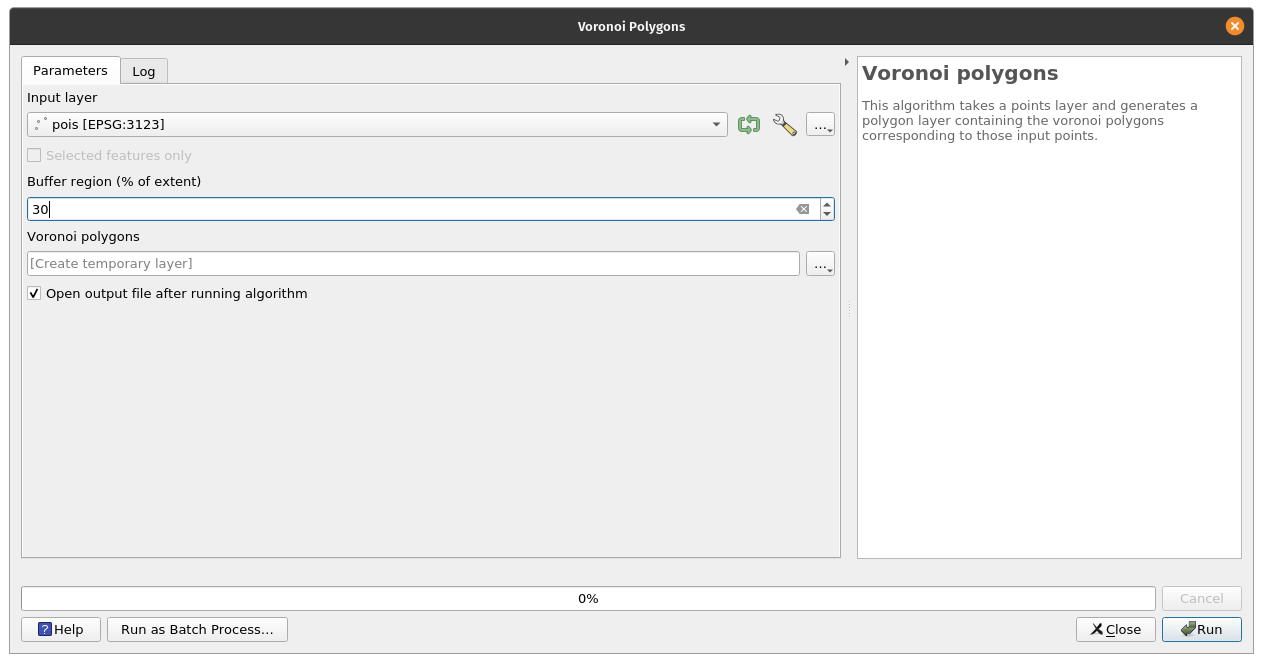
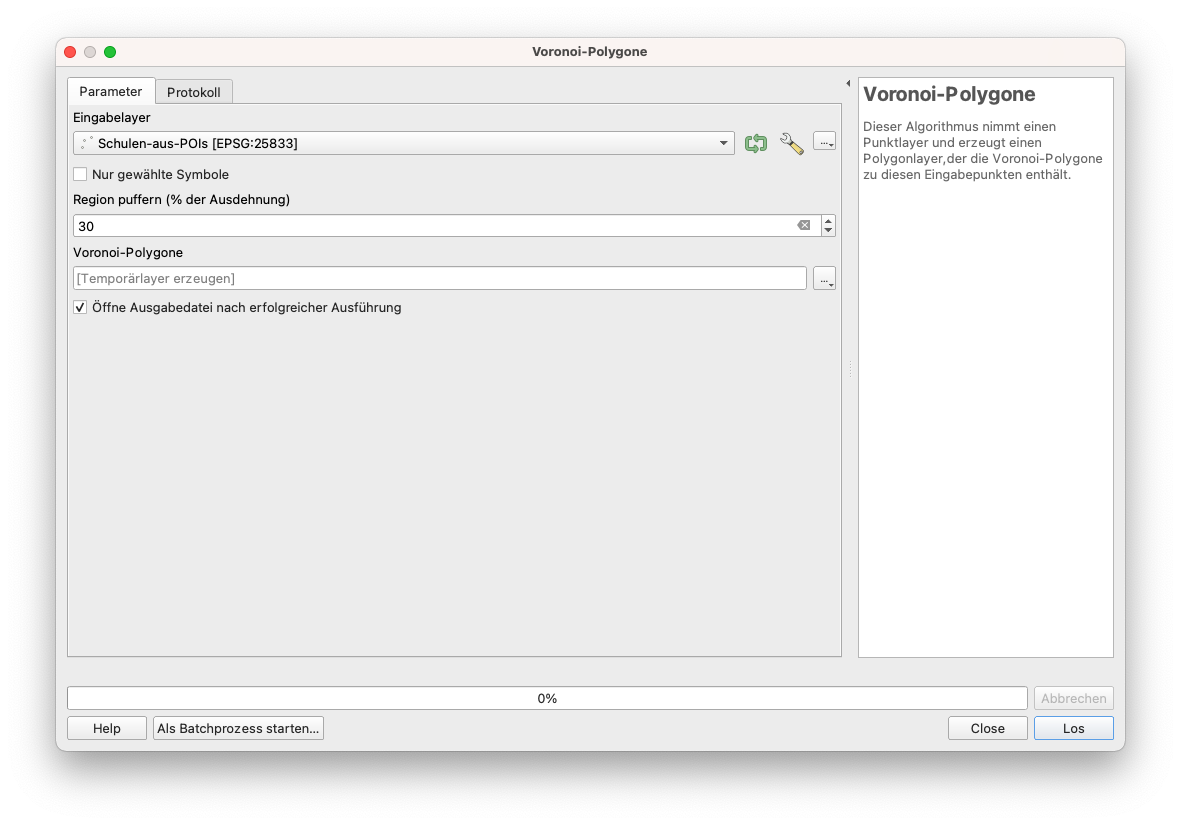
Translate & Localise more of module 8

Changed region(s): [[0.0, 0.0, 1.0, 0.9955], [0.6401, 0.3922, 0.6706, 0.4223]]

diff --git a/germany/module8/module8.md b/germany/module8/module8.md
@@ -15,13 +15,13 @@ Am Ende dieses Moduls sollten Sie ein grundlegendes Verständnis für die folgen
 * Geodatenanalyse
 * Geostatistik
 * Topologie
-* Geoprocessing
+* Geoverarbeitung
 
 Außerdem erwerben Sie die folgenden Fähigkeiten:
 
 * Qualitätskontrolle von geometrischen Vektordatensätzen mit Algorithmen zur Überprüfung der Vektordatentopologie und Durchführung grundlegender automatischer Korrekturen
 * Arbeiten mit Algorithmen zur Identifizierung von Fehlern in der Attributtabelle
-* Vektordatenverarbeitung - Ausführen einfacher Geoprocessing-Algorithmen zur Beantwortung möglicher Anforderungen, z. B. wie viele öffentliche Gebäude gibt es in meiner Verwaltungsregion?
+* Vektordatenverarbeitung - Ausführen einfacher Geoverarbeitungsalgorithmen zur Beantwortung möglicher Anforderungen, z. B. wie viele öffentliche Gebäude gibt es in meiner Verwaltungsregion?
 * Vektordatenverarbeitung - Verwendung von Geostatistik-Algorithmen zum Auffüllen fehlender Daten. 
 
 
@@ -110,7 +110,7 @@ Obwohl GIS meist eng mit Karten assoziiert wird, die einfach nur geografische In
 
 GIS-Software bietet Funktionalitäten, die es erlauben, relevante Topologieregeln zu definieren, sowie Algorithmen, um zu prüfen, ob sie zutreffen, und um den Vektor-Layer zu bereinigen, wenn Inkonsistenzen festgestellt werden. 
 
-Geoprocessing ist ein allgemeiner Begriff, der alle Operationen - Prozesse - definiert, die auf einen geografischen Datensatz angewendet werden, mit dem Ziel, einen abgeleiteten Datensatz zu erhalten, der neue Erkenntnisse über die Daten ermöglicht. Übliche Geoprocessing-Operationen sind die Überlagerung von geografischen Merkmalen, die Auswahl und Analyse von Merkmalen, die Topologieverarbeitung und die Datenkonvertierung. Geoprocessing ermöglicht es, geografische Informationen zu definieren, zu verwalten und zu analysieren, um die Entscheidungsfindung zu unterstützen. 
+Geoverarbeitung ist ein allgemeiner Begriff, der alle Operationen - Prozesse - definiert, die auf einen geografischen Datensatz angewendet werden, mit dem Ziel, einen abgeleiteten Datensatz zu erhalten, der neue Erkenntnisse über die Daten ermöglicht. Übliche Geoverarbeitungsperationen sind die Überlagerung von geografischen Merkmalen, die Auswahl und Analyse von Merkmalen, die Topologieverarbeitung und die Datenkonvertierung. Geoverarbeitung ermöglicht es, geografische Informationen zu definieren, zu verwalten und zu analysieren, um die Entscheidungsfindung zu unterstützen. 
 
 
 TODO
@@ -446,83 +446,78 @@ Abbildung 8.22 - GroupStats auf dem Straßenlayer
 
 
 
-### Phase 2: Introduction into vector processing
+### Teil 2: Einführung in die Vektorverarbeitung
 
-First phase of the vector module made a brief introduction into the steps that one should make to have a basic understanding of the geospatial data they have at hand. 
+Der erste Teil des Vektormoduls gab eine Einführung in die Schritte, die ein grundlegendes Verständnis für die vorliegenden Geodaten schaffen können. 
 
-This second phase of the module leads you into a more in depth work to process vector data in order to extract valuable insights to assist decision making. Following the concepts described at the beginning of this module, geoprocessing represents any process applied to a geographical dataset, with the scope of obtaining a derived dataset opening new insights on the data. And this is what we will attempt to do in the following. 
+Dieser zweite Teil des Moduls führt Sie in eine tiefergehende Arbeit zur Verarbeitung von Vektordaten ein, um wertvolle Erkenntnisse für die Entscheidungsfindung zu gewinnen. In Anlehnung an die zu Beginn dieses Moduls beschriebenen Konzepte stellt Geoverarbeitung jeden Prozess dar, der auf einen geografischen Datensatz angewendet wird, mit dem Ziel, einen abgeleiteten Datensatz zu erhalten, der neue Erkenntnisse über die Daten eröffnet. Und genau das werden wir im Folgenden tun. 
 
-There are many operations that can be performed on one or more geospatial datasets and during this first step, we will run some of the most common ones to understand how they operate. 
+Es gibt viele Operationen, die auf einen oder mehrere Geodatensätze angewendet werden können, und in diesem ersten Schritt werden wir einige der gängigsten ausführen, um zu verstehen, wie sie funktionieren. 
 
-**Buffer.** Imagine that you need to analyse a new piece of legislation that asks that on an area of 500 meters around places of worship there can be no other construction built. You would want to see where exactly those delinations are and maybe even how many square meters that is for your district. First step is to define a buffer around the places of worship: **Vector ‣ geoprocessing tools ‣ Buffer**. When the buffer window opens, set the parameters like in figure 8.23: 
-
-
-![Setting the parameters for a 500 m buffer around the places of worship](media/fig823.png "Setting the parameters for a 500 m buffer around the places of worship")
-
-Figure 8.23 - Setting the parameters for a 500 m buffer around the places of worship
-
-A detail of the result of the geoprocessing is depicted in figure 8.24: 
+**Puffer**: Stellen Sie sich vor, Sie müssen ein neues Gesetz analysieren, das vorschreibt, dass in einem Umkreis von 500 Metern um Gotteshäuser keine weiteren Gebäude errichtet werden dürfen. Sie würden sehen wollen, wo genau diese Abgrenzungen sind und vielleicht sogar, wie viele Quadratmeter das für Ihren Bezirk sind. Der erste Schritt besteht darin, einen Puffer um die Gotteshäuser zu definieren: **Vektor ‣ Geoverarbeitsungswerkzeuge ‣ Puffer**. Wenn sich das Pufferfenster öffnet, stellen Sie die Parameter wie in Abbildung 8.23 ein: 
 
 
-![Running buffer on a point vector layer](media/fig824.png "Running buffer on a point vector layer")
+![Einstellen der Parameter für einen 500 m Puffer um Gotteshäuser](media/fig823.png)
 
-Figure 8.24 - Running buffer on a point vector layer
+Abbildung 8.23 - Einstellen der Parameter für einen 500 m Puffer um Gotteshäuser
 
-To completely answer the initial question, the next step is to calculate the areas for all buffers and sum them up (see Phase 1, step 4) - figure 8.25. 
+Ein Detail des Ergebnisses der Geoverarbeitung ist in Abbildung 8.24 dargestellt: 
 
+![Ergebnis der Pufferberechnung](media/fig824.png)
 
-![Calculate area for the newly obtained layer, then calculate using GroupStats the total sum](media/fig825.png "Running buffer on Calculate area for the newly obtained layer, then calculate using GroupStats the total sum point vector layer")
+Abbildung 8.24 - Ergebnis der Pufferberechnung
 
-Figure 8.25 - Calculate area for the newly obtained layer, then calculate using GroupStats the total sum.
+Um die Ausgangsfrage vollständig zu beantworten, müssen im nächsten Schritt die Flächen für alle Puffer berechnet und aufsummiert werden (siehe Teil 1, Schritt 4) - Abbildung 8.25. 
 
-**Clip.** Imagine you want to know where all the industrial delineated areas are in your district and also how many buildings are within that perimeter. Visual inspecting your vector data, you notice that you have a number of industrial areas that contain several buildings. You want to separate those buildings and to use them further. First step is to select all features in the landuse layer that have as attribute industrial (see module 6 for how to do that). Afterwards, you go to **Vector ‣ Geoprocessing tools ‣ Clip** and choose as the layer to be clipped buildings_cleaned. Your results should look like in figure 8.27b. 
+![Fläche für den neu erhaltenen Layer, mit GroupStats berechnet](media/fig825.png)
 
+Abbildung 8.25 - Fläche für den neu erhaltenen Layer, mit GroupStats berechnet
 
-![Figure 8.26a - Select landuse fclass = industrial](media/fig826_a.png "Figure 8.26a - Select landuse fclass = industrial")
+**Zuschneiden**: Stellen Sie sich vor, Sie möchten wissen, wo sich alle abgegrenzten Industriegebiete in Ihrem Bezirk befinden und auch, wie viele Gebäude sich innerhalb dieses Gebiets befinden. Bei der visuellen Inspektion Ihrer Vektordaten stellen Sie fest, dass Sie eine Reihe von Industriegebieten haben, die mehrere Gebäude enthalten. Sie möchten diese Gebäude abgrenzen und weiter verwenden. Als ersten Schritt wählen Sie alle Features im Landnutzungs-Layer aus, die als Attribut Industrie haben (siehe Modul 6, wie das geht). Anschließend gehen Sie auf **Vektor ‣ Geoverarbeitungswerkzeuge ‣ Zuschneiden** und wählen als zu zuzuschneidenen Layer building-bereinigt. Ihr Ergebnis sollte wie in Abbildung 8.27b aussehen. 
 
-Figure 8.26a - Select landuse fclass = industrial. 
+![Auswahl der Flächennutzung fclass = industrial](media/fig826_a.png)
 
+Abbildung 8.26a - Auswahl der Flächennutzung fclass = industrial. 
 
-![Reduced selection of a few buildings and industrial landuse, so the computation can finish faster](media/fig826_b.png "Reduced selection of a few buildings and industrial landuse, so the computation can finish faster")
+![Ausgewählte Industrieflächen](media/fig826_b.png)
 
-Figure 8.26b - Reduced selection of a few buildings and industrial landuse, so the computation can finish faster. 
+Abbildung 8.26b - Ausgewählte Industrieflächen 
 
-Run the Clip algorithm. Make sure to check **Selected features only** box for the Overlay layer (landuse). This will ensure that only the currently selected features will be used for clipping and speed up the computations.
+Führen Sie den Zuschneiden-Algorithmus aus. Stellen Sie sicher, dass das Kontrollkästchen **Nur ausgewählte Features** für den Overlay Layer (landuse) aktiviert ist. Dadurch wird sichergestellt, dass nur die aktuell ausgewählten Features für das Zuschneidenping verwendet werden und die Berechnungen beschleunigt werden.
 
+![Ausführen des Zuschneiden-Algorithmus](media/fig827_a.png)
 
-![Running the Clip algorithm](media/fig827_a.png "Running the Clip algorithm")
+Abbildung 8.27a - Ausführen des Zuschneiden-Algorithmus
 
-Figure 8.27a - Running the Clip algorithm
+Nach der Ausführung des Algorithmus sollten Ihre Ergebnisse wie in Abbildung 8.27b aussehen. Die beschnittenen Gebäude sind grün eingefärbt (die Farbe kann bei Ihnen wie immer eine andere sein). Wie viele Industriegebäude bleiben über und wie groß ist deren Gesamtfläche? 
 
-After running the algorithm, your results should look like in figure 8.27b. The clipped buildings are colored in green (might be different on your machince). How many industrial buildings have you clipped and what is their total area? 
+![Ergebnis der Zuschneiden-Funktionalität](media/fig827_b.png)
 
-![Results of the clip functionality](media/fig827_b.png "Results of the clip functionality")
+Abbildung 8.27b - Ergebnis der Zuschneiden-Funktionalität
 
-Figure 8.27b - Results of the clip functionality
+**Thiessen (Voronoi)-Polygone**: Stellen Sie sich vor, Sie müssen eine Reihe von Verwaltungsentscheidungen in Ihrem Bezirk treffen, die darauf basieren, wie viele Schulen es gibt und welche spezifischen Bereiche sie bedienen. Eine raumbezogene Analyse kann dabei hilfreich sein. Sie können damit beginnen, die Thiessen-Polygone zu berechnen. Ausgehend von einer Fläche, die mindestens zwei Punkte enthält, ist ein Thiessen-Polygon eine 2-dimensionale Form, deren Grenzen den gesamten Raum enthalten, der näher an einem Punkt innerhalb der Fläche liegt als an jedem anderen Punkt außerhalb der Fläche. Ein gutes Anwendungsbeispiel ist die Meteorologie, wo Wetterstationen diskrete Punkte sind, die gesammelten Informationen aber als auf der Fläche gemessen gelten, basierend auf den Thiessen-Polygonen. 
 
-**Thiessen (Voronoi) polygons.** Imagine you have to make a series of administrative decisions in your district based on how many schools there are and what specific areas they serve. Geospatial analysis can be of assistance. You can start by calculating the Thiessen polygons. Based on an area containing at least two points, a Thiessen Polygon is a 2-dimensional shape which boundaries contain all space which is closer to a point within the area than any other point without the area. A good use example is in meteorology, where weather stations are discrete points, yet the information collected is considered to be measured out on the surface based on the thiessen polygons. 
-
-To respond to the above question, we will run the algorithm only for points that have the attribute school at type. Thus, make the selection as instructed in module 6. You should have 88 features selected on layer pois_cleaned. Go to **Vector ‣ Geometry Tools ‣ Voronoi Polygons..** After setting the parameters - select the point layer for which we want the Voronoi polygons calculated and a 30% extension so that the entire Pampanga province is contained, you should see a result like in figure 8.28d. 
-
-
-![Filtering the poi layer to get all schools](media/fig828_a.png "Filtering the poi layer to get all schools")
-
-Figure 8.28a - Filtering the poi layer to get all schools
+Um die obige Frage zu beantworten, werden wir den Algorithmus nur für Punkte ausführen, die das Attribut Schule am Typ haben. Nehmen Sie also die Auswahl wie in Modul 6 beschrieben vor. Sie sollten 88 Features auf dem Layer pois_cleaned ausgewählt haben. Gehen Sie zu **Vektor ‣ Geometrie-Werkzeuge ‣ Voronoi-Polygone..** Nachdem Sie die Parameter eingestellt haben - wählen Sie den Punkt-Layer, für den die Voronoi-Polygone berechnet werden sollen, und eine 30-prozentige Erweiterung, so dass die gesamte Provinz Pampanga enthalten ist, sollten Sie ein Ergebnis wie in Abbildung 8.28d sehen. Sollten Sie dabei die Fehlermeldung bekommen, dass die Funktion nur auf Objekte des Typs "Point" und nicht "Multipoint" angewandt werden kann, wählen sie "Vektor > Gemoetrie-Werkzeuge > Mehr- zu eindeutig" und wenden sie den Voronoi-Algorithmus auf den neuen Layer an.
 
 
-![All schools in the poi layer](media/fig828_b.png "All schools in the poi layer")
+![Filtern des POI-Layer nach Schulen](media/fig828_a.png)
 
-Figure 8.28b - All schools in the poi layer
-
-
-![Running the Voronoi polygon algorithm](media/fig828_c.png "Running the Voronoi polygon algorithm")
-
-Figure 8.28c - Running the Voronoi polygon algorithm
+Abbildung 8.28a - Filtern des POI-Layer nach Schulen
 
 
-![Results of applying Thiessen (Voronoi) polygons algorithm to a point vector layer](media/fig828_d.png "Results of applying Thiessen (Voronoi) polygons algorithm to a point vector layer")
+![Schulen im POI-Layer](media/fig828_b.png)
 
-Figure 8.28d - Results of applying Thiessen (Voronoi) polygons algorithm to a point vector layer
+Abbildung 8.28b - Schulen im POI-Layer
+
+
+![Ausführen des Voronoi-Algorithmus](media/fig828_c.png)
+
+Abbildung 8.28c - Ausführen des Voronoi-Algorithmus
+
+
+![Ergebnis des Voronoi-Algorithmus](media/fig828_d.png)
+
+Abbildung 8.28d - Ergebnis des Voronoi-Algorithmus
 
 Sometimes, the necessities impose the requirement of having information in smaller, clearly defined and equal areas and not for an entire large region, such as a country or a big city. Therefore, the data needs to be analysed and visualised in a sliced, well-defined way, allowing comparison that otherwise could prove difficult without a ground common reference. 
 
